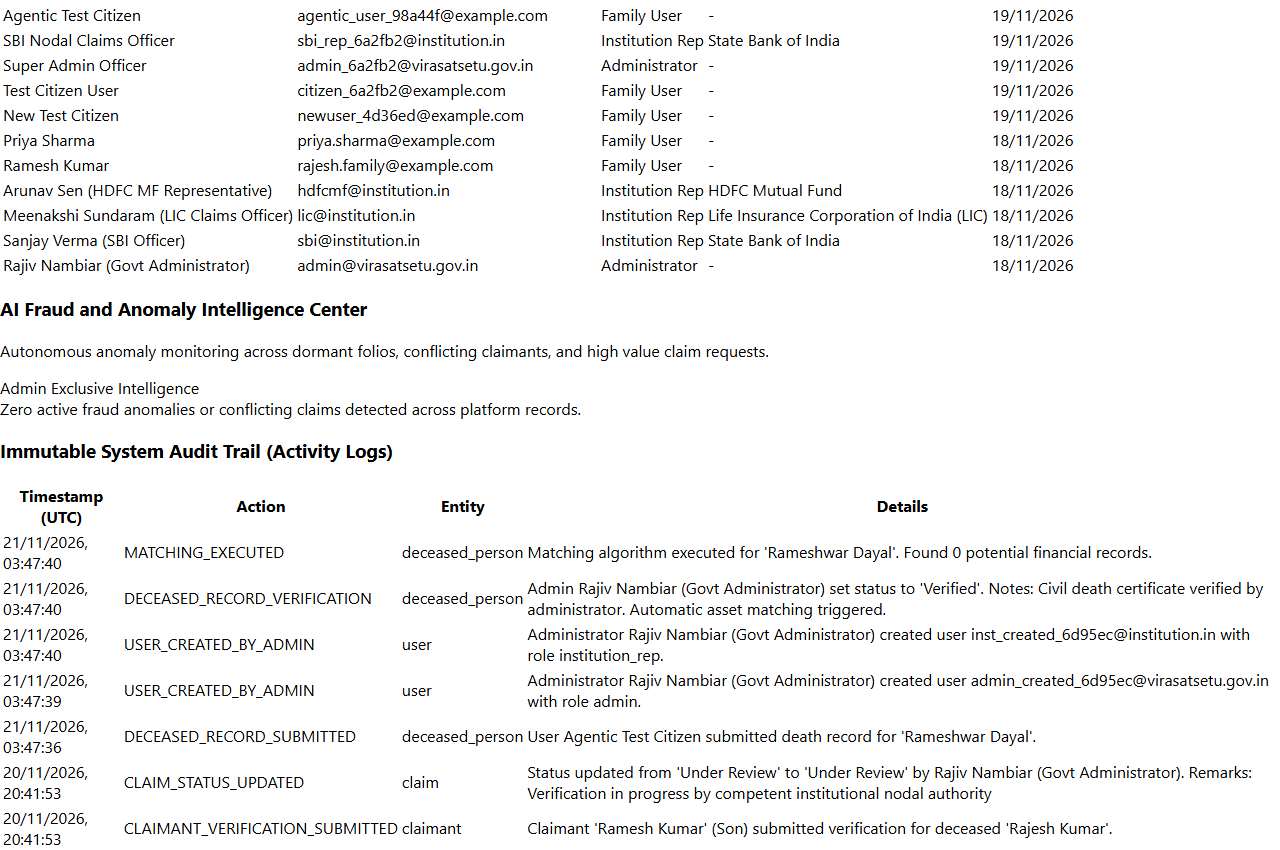
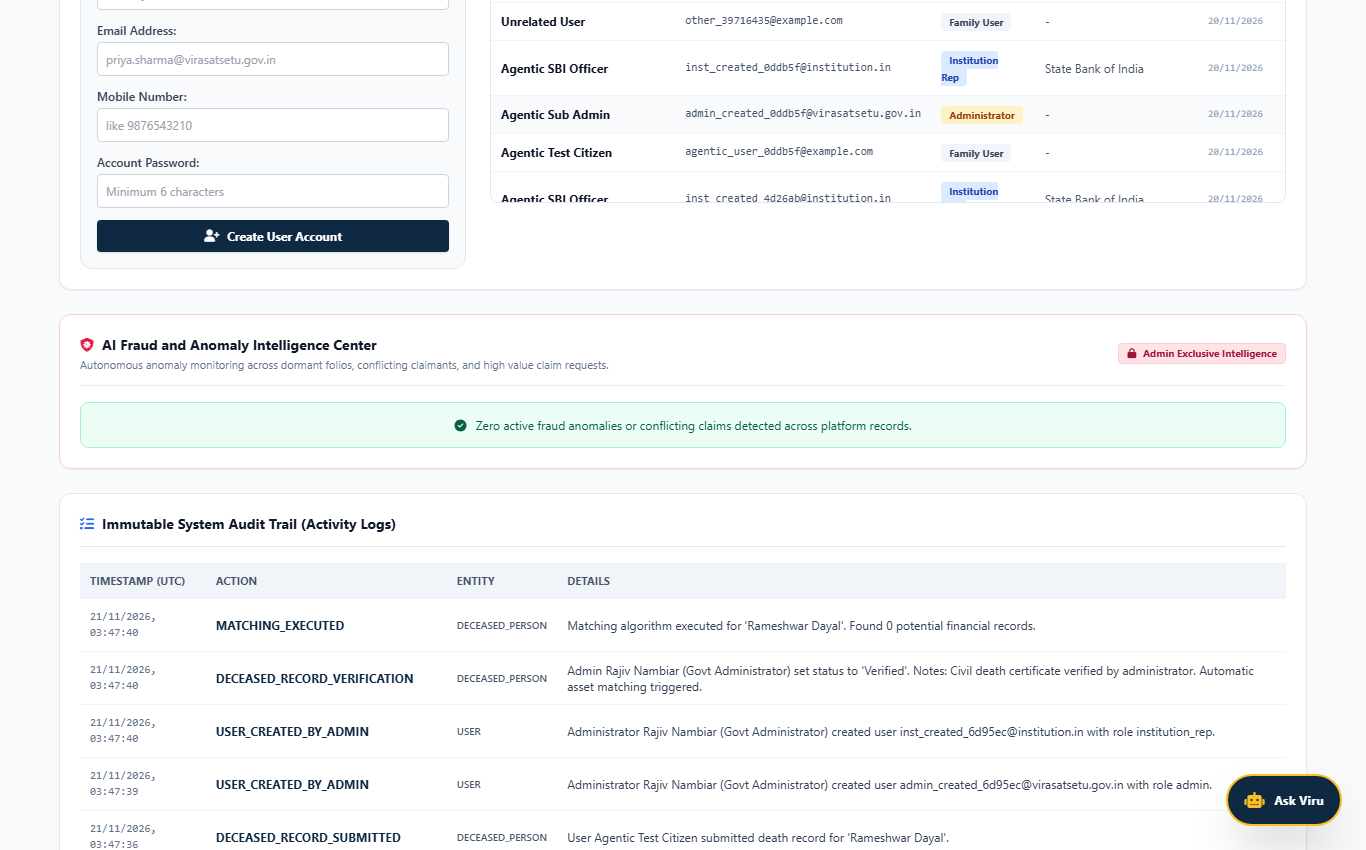
docs: update all interface visuals with fully styled browser captures and relative paths

diff --git a/documentation/Visuals.md b/documentation/Visuals.md
@@ -3,16 +3,21 @@
 This document establishes the comprehensive visual inventory, interface layout design, chromatic system and user experience architecture across the Virasat Setu platform.
 
 Virasat Setu Visual Asset Directory:
-1. Official Sovereign Brand Emblem: [logo.jpg](file:///c:/Users/Xeron/Desktop/IIIT-ACourseWork/DTIProject/Visuals/logo.jpg).
-2. Project Coursework Reference Visual: [GroupNumber_14.jpeg](file:///c:/Users/Xeron/Desktop/IIIT-ACourseWork/DTIProject/Visuals/GroupNumber_14.jpeg).
-3. Citizen Portal Home Interface: [portal_home.png](file:///c:/Users/Xeron/Desktop/IIIT-ACourseWork/DTIProject/Visuals/portal_home.png).
-4. Discovered Assets and Matching Console: [discovered_matches.png](file:///c:/Users/Xeron/Desktop/IIIT-ACourseWork/DTIProject/Visuals/discovered_matches.png).
-5. Central Financial Database Browser: [browse_database.png](file:///c:/Users/Xeron/Desktop/IIIT-ACourseWork/DTIProject/Visuals/browse_database.png).
-6. Central Administrative Oversight Console: [admin_console.png](file:///c:/Users/Xeron/Desktop/IIIT-ACourseWork/DTIProject/Visuals/admin_console.png).
-7. Viru (Virasat AI Legal Copilot) Interface: [viru_copilot.png](file:///c:/Users/Xeron/Desktop/IIIT-ACourseWork/DTIProject/Visuals/viru_copilot.png).
-8. Citizen AI Claim Health and Readiness Meter: [claim_health.png](file:///c:/Users/Xeron/Desktop/IIIT-ACourseWork/DTIProject/Visuals/claim_health.png).
-9. Administrative AI Fraud and Anomaly Center: [fraud_anomaly.png](file:///c:/Users/Xeron/Desktop/IIIT-ACourseWork/DTIProject/Visuals/fraud_anomaly.png).
-10. Google Identity OAuth Two Point Zero Authentication: [google_oauth.png](file:///c:/Users/Xeron/Desktop/IIIT-ACourseWork/DTIProject/Visuals/google_oauth.png).
+1. Official Sovereign Brand Emblem: [logo.jpg](../Visuals/logo.jpg).
+2. Citizen Portal Home Interface: [portal_home.png](../Visuals/portal_home.png).
+3. Authenticated Citizen Family Dashboard: [citizen_dashboard.png](../Visuals/citizen_dashboard.png).
+4. Deceased Person Registration Form: [register_deceased.png](../Visuals/register_deceased.png).
+5. Discovered Assets and Matching Console: [discovered_matches.png](../Visuals/discovered_matches.png).
+6. Citizen AI Claim Health and Readiness Meter: [claim_health.png](../Visuals/claim_health.png).
+7. Claim Progress Tracking Console: [claim_tracking.png](../Visuals/claim_tracking.png).
+8. Central Financial Database Browser: [browse_database.png](../Visuals/browse_database.png).
+9. Central Administrative Oversight Console: [admin_console.png](../Visuals/admin_console.png).
+10. Administrative AI Fraud and Anomaly Center: [fraud_anomaly.png](../Visuals/fraud_anomaly.png).
+11. Institutional Claim Processing Desk: [institution_desk.png](../Visuals/institution_desk.png).
+12. Viru (Virasat AI Legal Copilot) Interface: [viru_copilot.png](../Visuals/viru_copilot.png).
+13. Google Identity OAuth Two Point Zero Authentication: [google_oauth.png](../Visuals/google_oauth.png).
+14. System Notifications Center Modal: [notifications_modal.png](../Visuals/notifications_modal.png).
+15. Project Coursework Reference Visual: [GroupNumber_14.jpeg](../Visuals/GroupNumber_14.jpeg).
 
 
 ## Interface Design Philosophy:
@@ -39,38 +44,98 @@ The platform palette synthesizes national identity with financial dignity:
 
 ## Primary Visual Screen Inventory:
 
-### 1. Citizen Portal Landing Screen (portal_home.png):
+### 1. Citizen Portal Landing Screen:
 
-The public landing view welcomes citizens and introduces the core mission of the platform:
+![Citizen Portal Home Interface](../Visuals/portal_home.png)
+
+Caption: Virasat Setu citizen portal landing page displaying sovereign header, impact metrics counter, four stage discovery workflow and quick action triggers.
 
 1. Sovereign Portal Header: Features the official Virasat Setu bilingual wordmark and emblem, primary navigation links, quick role switcher and authentication triggers.
 2. Impact Metric Counter: Prominently displays central statistics including forty two bank accounts, twenty six insurance policies, twenty six mutual funds and total indexed national wealth exceeding one crore rupees.
 3. Four Step Discovery Stepper: Visually maps the citizen journey from civil registration through administrative verification, automated asset discovery and institutional claim settlement.
 4. Quick Action Banners: Direct buttons allowing immediate registration of deceased family members, rapid role switching for evaluation and exploration of the central financial database.
 
-### 2. Discovered Assets and Matching Console (discovered_matches.png):
 
-The asset discovery console presents candidate inheritance matches generated by the one hundred point engine:
+### 2. Authenticated Citizen Family Dashboard:
+
+![Authenticated Citizen Family Dashboard](../Visuals/citizen_dashboard.png)
+
+Caption: Family dashboard displaying personal metric summaries, submitted deceased family records, in progress claim steppers and recent system events.
+
+1. Family Metric Cards: Summarizes total registered deceased relatives, candidate asset matches discovered, claims currently under review and unread notification alerts.
+2. Submitted Deceased Table: Lists registered family members with municipal certificate references, verification state and discovery action shortcuts.
+3. Active Claims Summary: Provides quick status badges showing ongoing claim verifications across banking and insurance desks.
+4. Recent Activity Stream: Displays chronological system updates including match discoveries, certificate validations and nodal officer remarks.
+
+
+### 3. Deceased Person Registration Form:
+
+![Deceased Person Registration Form](../Visuals/register_deceased.png)
+
+Caption: Four section civil death registration interface collecting personal vitals, municipal certificate references and claimant relationship declarations.
+
+1. Section One Personal Information: Captures deceased full legal name, gender, date of birth, date of death and last known residential city and state.
+2. Section Two Civil Registration: Records municipal death certificate reference numbers, issuing municipal corporation authorities and national identity identifiers like PAN.
+3. Section Three Document Attachment: Enables optional civil death certificate document uploads with instant client side file validation.
+4. Section Four Claimant Profile: Collects claimant full name, mobile number, email address, family relationship and legal entitlement category.
+
+
+### 4. Discovered Assets and Matching Console:
+
+![Discovered Assets and Matching Console](../Visuals/discovered_matches.png)
+
+Caption: Automated asset discovery interface displaying verified holdings, institution titles, masked account folios and one hundred point match scores.
 
 1. Deceased Selection Bar: Dropdown selector allowing citizens to toggle between multiple registered deceased family members.
-2. Matching Confidence Cards: Each identified financial asset is displayed in a dedicated card displaying asset category (Bank, Life Insurance, Mutual Fund), institution name, masked account number, holder name, and estimated valuation.
+2. Matching Confidence Cards: Each identified financial asset is displayed in a dedicated card displaying asset category (Bank, Life Insurance, Mutual Fund), institution name, masked account number, holder name and estimated valuation.
 3. Visual Score Pill: A color coded circular badge indicating the exact matching score between zero and one hundred points, categorized as Strong Potential Match or Requires Manual Review.
 4. Transparent Score Breakdown: Clickable score analysis showing attributed points across identity reference, token name distance, birth date alignment and branch location.
 5. Initiate Claim Trigger: A prominent button launching the formal claim preparation modal.
 
-### 3. Central Financial Database Browser (browse_database.png):
 
-An administrative repository console housing indexed records across participating institutions:
+### 5. Citizen AI Claim Health and Readiness Meter:
 
-1. Strict Administrative Gating: Hidden from standard citizens and accessible exclusively to authenticated platform administrators.
+![Citizen AI Claim Health and Readiness Meter](../Visuals/claim_health.png)
+
+Caption: Claim preparation dialog featuring the embedded five dimension AI Claim Health Predictor gauge, approval probability percentage and documentation checklist.
+
+1. Embedded Modal Placement: Positioned directly within the formal claim preparation modal above the claimant details form.
+2. Circular Readiness Gauge: A visual percentage score ring color coded from amber (low readiness) to emerald (high readiness) indicating calculated approval odds between twenty five and ninety eight percent.
+3. Dynamic Status Badge: Labels claims as High Approval Likelihood, Moderate Approval Likelihood, or Enhanced Diligence Required.
+4. Prescriptive Action Cards: Bulleted recommendation boxes detailing exact affidavits, indemnity bonds, no objection certificates, or succession certificates needed to maximize approval odds prior to submission.
+5. Officer Remarks Input: Textarea enabling claimants to submit supplemental contextual declarations or legal heir certificate references.
+
+
+### 6. Claim Progress Tracking Console:
+
+![Claim Progress Tracking Console](../Visuals/claim_tracking.png)
+
+Caption: Multi stage claim tracking interface illustrating the five step lifecycle stepper, active institutional status and official officer remarks.
+
+1. Five Stage Visual Stepper: Maps the complete claim lifecycle across Initiated, Civil Verified, Institution Review, Document Verification, and Settled stages.
+2. Institution Details Banner: Displays institution insignia, branch location, asset category, account folio and claimed valuation.
+3. Status Indicator Badges: Color coded pills denoting current operational stage and review status.
+4. Official Officer Remarks: Chronological audit notes dispatched by institutional desk officers guiding families through document submissions or settlement updates.
+
+
+### 7. Central Financial Database Browser:
+
+![Central Financial Institution Database Browser](../Visuals/browse_database.png)
+
+Caption: Central repository database browser searching across ninety four institutional financial records, gated strictly to administrators.
+
+1. Strict Administrative Gating: Hidden from standard citizens and accessible exclusively to authenticated platform administrators and institutional officers.
 2. Multi Institution Directory: Categorized directory of forty two bank deposits, twenty six life insurance policies and twenty six mutual fund folios.
 3. Category Filtering Pills: Instant filter buttons allowing officers to isolate records by institutional type: All Assets, Bank Accounts, Insurance Policies, and Mutual Funds.
 4. Real Time Search Input: Instantaneous filter field searching across holder names, account references and municipal identity codes.
 5. Tabular Asset Metrics: Formatted columns showing institution title, product category, holder legal name, birth date, dormancy tenure, approximate valuation and current asset status.
 
-### 4. Central Administrative Oversight Console (admin_console.png):
 
-The command center for government administrators and civil registrars:
+### 8. Central Administrative Oversight Console:
+
+![Central Administrative Oversight Console](../Visuals/admin_console.png)
+
+Caption: Administrative command center presenting platform vital statistics, civil certificate review queue, single click verification actions and audit logs.
 
 1. Platform Vital Statistics: Metric cards summarizing total registered citizen users, verified civil records, active candidate matches, and pending claims.
 2. Civil Death Certificate Review Queue: Actionable table listing submitted deceased records with citizen contact information, certificate references, and issuing municipal authorities.
@@ -79,13 +144,37 @@ The command center for government administrators and civil registrars:
 5. Immutable Audit Log Viewer: Chronological table recording user logins, verification determinations, matching engine runs and claim determinations with client IP addresses and timestamps.
 
 
-## Newly Integrated Visual Interfaces:
+### 9. Administrative AI Fraud and Anomaly Center:
 
-### 1. Viru: Virasat AI Legal Copilot Interface:
+![Administrative AI Fraud and Anomaly Center](../Visuals/fraud_anomaly.png)
 
-![Viru Virasat AI Legal Copilot Interface](file:///c:/Users/Xeron/Desktop/IIIT-ACourseWork/DTIProject/Visuals/viru_copilot.png)
+Caption: Central administrative fraud detection console displaying real time duplicate claim warnings, high value dormancy alerts and relationship discrepancy cards.
 
-Caption: Viru conversational legal intelligence interface rendering real time statutory guidance and clickable prompt chips.
+1. Segregated Administrative Placement: Positioned exclusively within the Administrator Dashboard and Financial Institution Desks.
+2. High Priority Anomaly Cards: Styled with high visibility crimson and amber alert borders highlighting potential risks:
+   * Duplicate Claim Conflicts: Flags multiple distinct citizens filing claims on the same underlying financial folio.
+   * High Value Dormancy Warnings: Highlights dormant assets exceeding five lakh rupees requiring mandatory dual officer scrutiny.
+   * Nominee Hierarchy Discrepancies: Identifies claims where declared claimant relationship conflicts with recorded institutional records.
+3. Direct Action Buttons: Enables officers to place conflicting claims on administrative hold, request court succession certificates, or clear verified claims.
+
+
+### 10. Institutional Claim Processing Desk:
+
+![Institutional Claim Processing Desk](../Visuals/institution_desk.png)
+
+Caption: Dedicated verification desk for banking and insurance officers, featuring pending claim queues, document reviews and decision buttons.
+
+1. Institutional Header and Branding: Displays designated financial institution identity like State Bank of India, Life Insurance Corporation or HDFC Mutual Fund.
+2. Institutional Metric Counters: Tracks total claims assigned to the institution, pending reviews, approved payouts and documentation requests.
+3. Assigned Claims Queue: Tabular overview of submitted citizen claims containing claimant contact info, deceased legal references and claimed values.
+4. Tripartite Decision Controls: Action buttons empowering officers to approve verified claims, request supplemental civil documentation or reject conflicting submissions.
+
+
+### 11. Viru: Virasat AI Legal Copilot Interface:
+
+![Viru Virasat AI Legal Copilot Interface](../Visuals/viru_copilot.png)
+
+Caption: Viru conversational legal intelligence interface rendering real time statutory guidance, prompt chips and step by step legal checklists.
 
 1. Floating Action Launcher: An unobtrusive, modern circular floating button anchored at the bottom right of the screen featuring an artificial intelligence spark emblem and labeled Ask Viru.
 2. Dedicated Navigation Tab: An accessible top navigation tab titled Viru (AI Copilot) providing direct modal access.
@@ -97,36 +186,26 @@ Caption: Viru conversational legal intelligence interface rendering real time st
    * LIC death claim documentation requirements.
 5. Formatted Markdown Rendering: Responses are structured with bold statute references, bulleted documentation checklists and step by step guidance.
 
-### 2. AI Claim Health and Approval Probability Meter:
 
-![Citizen AI Claim Health and Readiness Meter](file:///c:/Users/Xeron/Desktop/IIIT-ACourseWork/DTIProject/Visuals/claim_health.png)
+### 12. Google Identity OAuth Two Point Zero Authentication Dialog:
 
-Caption: Claim readiness meter displaying calculated approval probability percentage, readiness status badge and prescriptive documentation checklist.
+![Google Identity OAuth Two Point Zero Authentication Dialog](../Visuals/google_oauth.png)
 
-1. Embedded Claim Modal Placement: Positioned directly within the formal claim preparation modal above the claimant details form.
-2. Circular Readiness Gauge: A visual percentage score ring color coded from amber (low readiness) to emerald (high readiness) indicating calculated approval odds between twenty five and ninety eight percent.
-3. Dynamic Status Badge: Labels claims as High Approval Likelihood, Moderate Approval Likelihood, or Enhanced Diligence Required.
-4. Prescriptive Action Cards: Bulleted recommendation boxes detailing exact affidavits, indemnity bonds, no objection certificates, or succession certificates needed to maximize approval odds prior to submission.
-
-### 3. AI Fraud and Anomaly Intelligence Center:
-
-![Administrative AI Fraud and Anomaly Center](file:///c:/Users/Xeron/Desktop/IIIT-ACourseWork/DTIProject/Visuals/fraud_anomaly.png)
-
-Caption: Central administrative fraud detection console displaying real time duplicate claim warnings, high value dormancy alerts and relationship discrepancy cards.
-
-1. Segregated Administrative Placement: Positioned exclusively within the Administrator Dashboard and Financial Institution Desks.
-2. High Priority Anomaly Cards: Styled with high visibility crimson and amber alert borders highlighting potential risks:
-   * Duplicate Claim Conflicts: Flags multiple distinct citizens filing claims on the same underlying financial folio.
-   * High Value Dormancy Warnings: Highlights dormant assets exceeding five lakh rupees requiring mandatory dual officer scrutiny.
-   * Nominee Hierarchy Discrepancies: Identifies claims where declared claimant relationship conflicts with recorded institutional records.
-3. Direct Action Buttons: Enables officers to place conflicting claims on administrative hold, request court succession certificates, or clear verified claims.
-
-### 4. Google OAuth 2.0 Branded Identity Button:
-
-![Google Identity OAuth Two Point Zero Authentication Dialog](file:///c:/Users/Xeron/Desktop/IIIT-ACourseWork/DTIProject/Visuals/google_oauth.png)
-
-Caption: Authentication dialog with official branded Continue with Google button and traditional credential sign in.
+Caption: Authentication modal featuring the official Continue with Google identity button alongside traditional email credentials.
 
 1. Prominent Modal Placement: Embedded at the top of the authentication dialog above the traditional credential inputs.
 2. Standard Google Identity Styling: White button with official Google multicolored emblem, clean typography reading Continue with Google, and smooth hover elevation.
-3. Seamless User Feedback: Displays subtle loading feedback during token validation and transitions smoothly into the authenticated citizen portal upon completion.
+3. Traditional Sign In Alternatives: Clean email and password inputs with password visibility toggle and evaluator demonstration switcher buttons.
+4. Seamless User Feedback: Displays subtle loading feedback during token validation and transitions smoothly into the authenticated citizen portal upon completion.
+
+
+### 13. System Notifications and Alerts Center Modal:
+
+![System Notifications Center Modal](../Visuals/notifications_modal.png)
+
+Caption: Notifications center modal displaying real time system alerts, asset discovery notices, simulated email headers and read state controls.
+
+1. Unread Notification Counter: Bell icon in the sovereign header displaying a real time badge counting unread alerts.
+2. Categorized Notification Cards: Lists recent events including new asset discoveries, civil certificate approvals, and institutional claim transitions.
+3. Simulated Email Dispatch Inspector: Displays complete email subject lines, timestamps, sender routing and official body text simulating government communications.
+4. Global Read State Trigger: Single click Mark all read button clearing pending alerts across the portal.

diff --git a/README.md b/README.md
@@ -27,9 +27,21 @@ Virasat Setu Platform Flow:
 
 Caption: Virasat Setu citizen portal landing page and four stage discovery workflow overview.
 
+![Authenticated Citizen Family Dashboard](Visuals/citizen_dashboard.png)
+
+Caption: Citizen family dashboard presenting registered records, discovered asset metrics and claim progress.
+
 ![Discovered Unclaimed Financial Assets](Visuals/discovered_matches.png)
 
 Caption: Automated asset discovery interface displaying verified holdings and one hundred point match scores.
+
+![Citizen AI Claim Health and Readiness Meter](Visuals/claim_health.png)
+
+Caption: Formal claim preparation dialog featuring the AI Claim Health Predictor gauge and documentation checklist.
+
+![Viru Virasat AI Legal Copilot Interface](Visuals/viru_copilot.png)
+
+Caption: Viru conversational legal intelligence interface rendering real time statutory guidance and clickable prompts.
 
 ![Browse Financial Institution Database](Visuals/browse_database.png)
 
@@ -38,6 +50,18 @@ Caption: Central repository database browser searching across ninety four instit
 ![Platform Central Oversight Console](Visuals/admin_console.png)
 
 Caption: Administrative oversight console managing civil record verifications, platform metrics and claim workflows.
+
+![Administrative AI Fraud and Anomaly Center](Visuals/fraud_anomaly.png)
+
+Caption: Administrative security center detecting duplicate claims, high value dormancy and relationship anomalies.
+
+![Institutional Claim Processing Desk](Visuals/institution_desk.png)
+
+Caption: Dedicated verification desk for banking and insurance officers with pending claim queues and decision controls.
+
+![Google Identity OAuth Two Point Zero Authentication Dialog](Visuals/google_oauth.png)
+
+Caption: Authentication modal featuring the official Continue with Google identity button and traditional credentials.
 
 
 ## Executive Summary and Scope:

diff --git a/documentation/CodeBaseIndex.md b/documentation/CodeBaseIndex.md
@@ -51,15 +51,20 @@ The project follows a human interpretable modular layout separating concerns cle
     auth py ................. Password Hashing and JWT Tokens
 /Visuals
   logo jpg .................. Official Brand Identity Emblem Master Asset
-  GroupNumber_14 jpeg ....... Coursework Project Reference Visual
   portal_home png ........... Citizen Portal Landing Interface Screenshot
+  citizen_dashboard png ..... Authenticated Citizen Family Dashboard Screenshot
+  register_deceased png ..... Deceased Person Registration Form Screenshot
   discovered_matches png .... Discovered Assets and Matching Results Screenshot
+  claim_health png .......... AI Claim Health Predictor and Readiness Meter Screenshot
+  claim_tracking png ........ Claim Lifecycle and Progress Steppers Screenshot
   browse_database png ....... Financial Institution Database Browser Screenshot
   admin_console png ......... Central Administrative Oversight Console Screenshot
-  viru_copilot png .......... Viru AI Legal Copilot Knowledge Dialog Screenshot
-  claim_health png .......... AI Claim Health Predictor and Readiness Meter Screenshot
   fraud_anomaly png ......... Administrative AI Fraud and Anomaly Center Screenshot
+  institution_desk png ...... Institutional Claim Processing Desk Screenshot
+  viru_copilot png .......... Viru AI Legal Copilot Knowledge Dialog Screenshot
   google_oauth png .......... Google Identity OAuth Two Point Zero Authentication Screenshot
+  notifications_modal png ... System Notifications and Alerts Modal Screenshot
+  GroupNumber_14 jpeg ....... Coursework Project Reference Visual
 /documentation
   AIMLIntegrations md ......... Artificial Intelligence and Machine Learning Architecture
   Architecture md ............. Deep Technical Architecture
